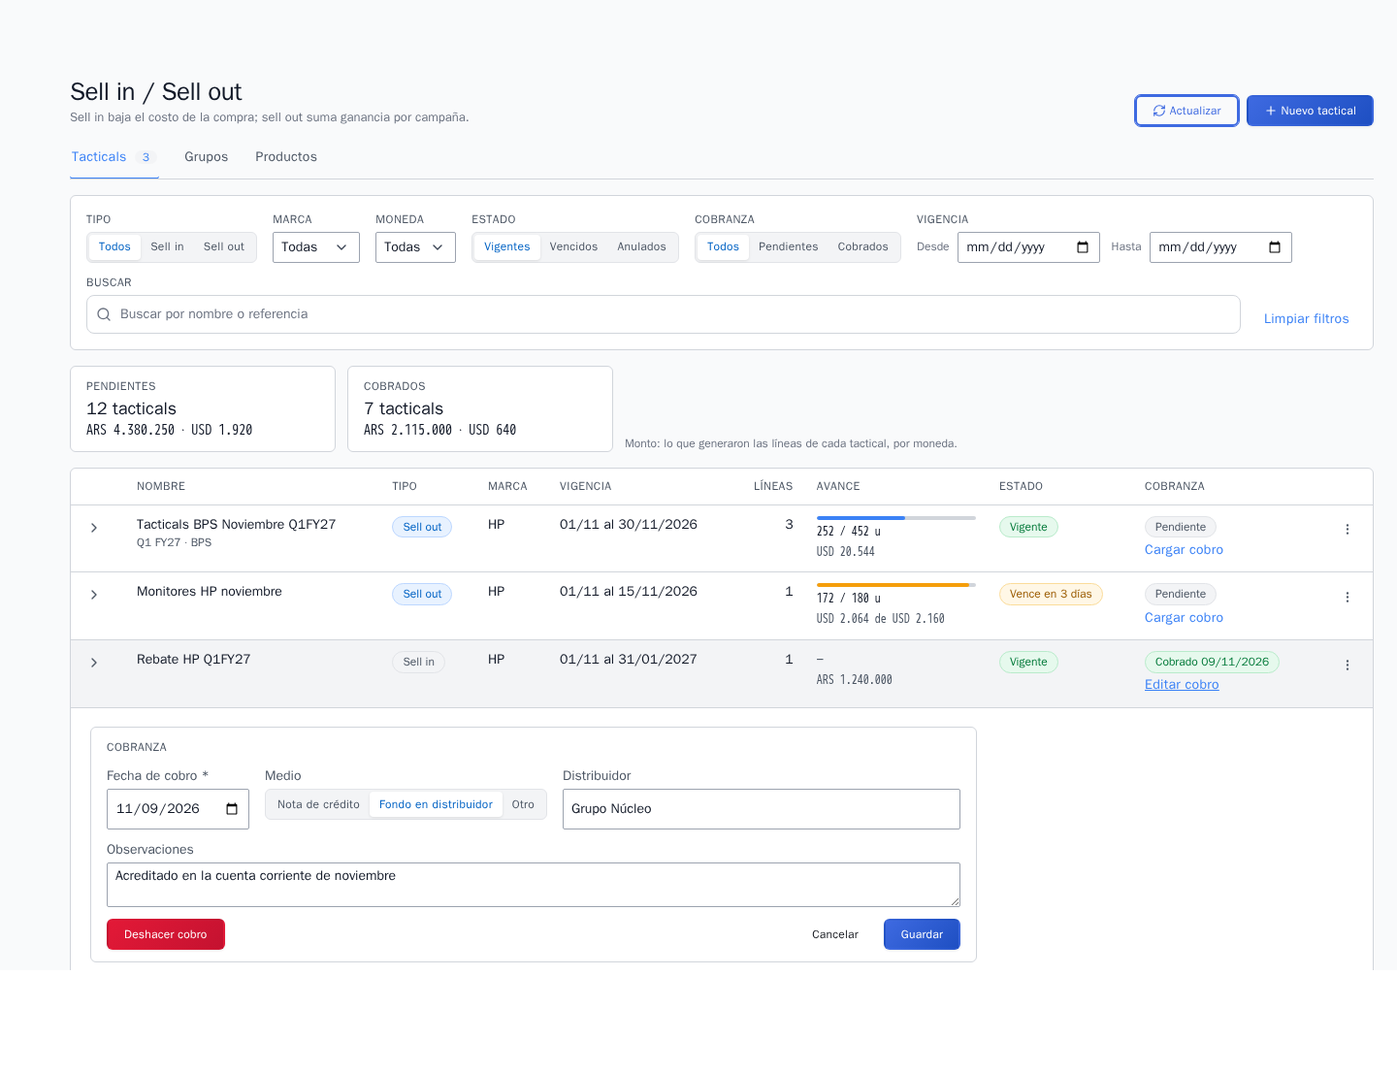
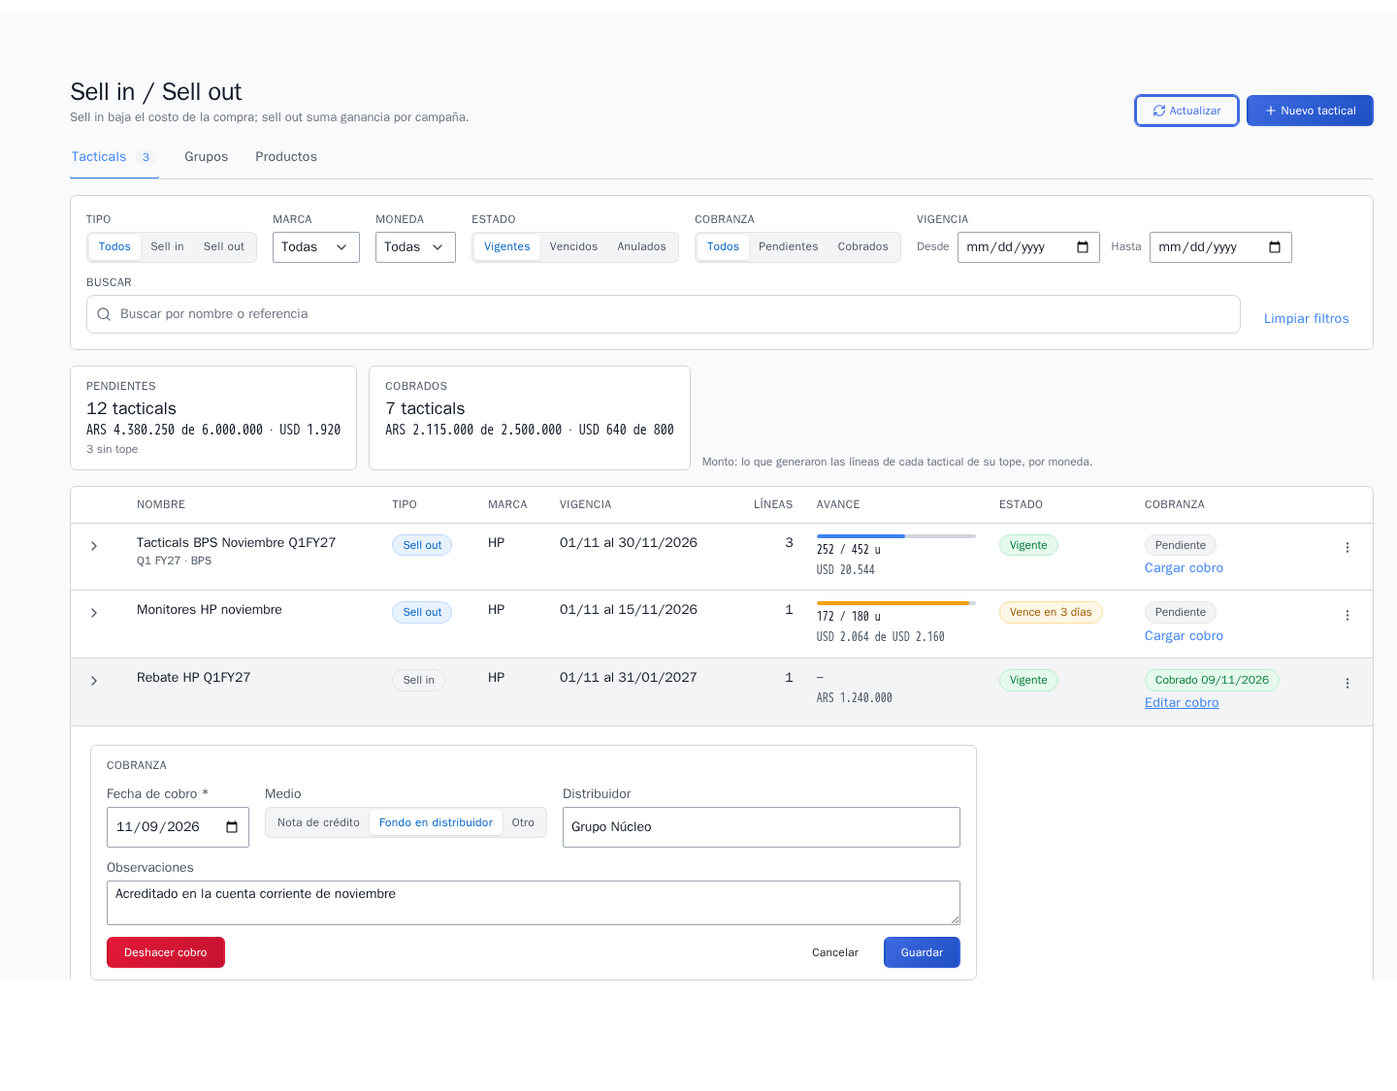
feat(tacticals): cobranza KPIs show generated of cap per currency
Each KPI currency reads the lines' generated amount of their money cap
(tope_monto, or a Monto total line's total), and counts the tacticals
with no money cap on any line. Same SQL aggregate as the generated
figure, pinned by the parity test against the serialized lines.

diff --git a/frontend/src/components/tacticals/TacticalsList.test.jsx b/frontend/src/components/tacticals/TacticalsList.test.jsx
@@ -369,12 +369,17 @@ describe('TacticalsList Cobranza (handoffs/tactical-cobranza-tarea.md S3, S4)', 
     tacticalsAPI.cobrar.mockResolvedValue({ data: COBRADO });
   });
 
-  it('shows Pendientes and Cobrados with their count and amount per currency', async () => {
+  it('shows Pendientes and Cobrados with their count, generated of cap per currency and how many have no cap', async () => {
     render(<TacticalsList marcas={MARCAS} />);
 
     const kpis = await screen.findByRole('region', { name: 'Cobranza de los tacticals' });
-    expect(within(kpis).getByText('Pendientes').closest('div')).toHaveTextContent('Pendientes12 tacticalsARS 4.380.250 · USD 1.920');
-    expect(within(kpis).getByText('Cobrados').closest('div')).toHaveTextContent('Cobrados7 tacticalsARS 2.115.000 · USD 640');
+    expect(within(kpis).getByText('Pendientes').closest('div')).toHaveTextContent(
+      'Pendientes12 tacticalsARS 4.380.250 de 6.000.000 · USD 1.9203 sin tope',
+    );
+    expect(within(kpis).getByText('Cobrados').closest('div')).toHaveTextContent(
+      /^Cobrados7 tacticalsARS 2\.115\.000 de 2\.500\.000 · USD 640 de 800$/,
+    );
+    expect(kpis).toHaveTextContent('Monto: lo que generaron las líneas de cada tactical de su tope, por moneda.');
   });
 
   it('a currency-less group reads a dash, and a single tactical reads singular', async () => {

diff --git a/frontend/src/components/tacticals/TacticalsList.jsx b/frontend/src/components/tacticals/TacticalsList.jsx
@@ -28,7 +28,8 @@ const FILAS_POR_PAGINA = 50;
 
 const cantidadDe = (n) => `${n} ${n === 1 ? 'tactical' : 'tacticals'}`;
 
-/** Pendientes and Cobrados over every tactical the other filters match (tactical cobranza S4): count and amount. */
+/** Pendientes and Cobrados over every tactical the other filters match (tactical cobranza S4): count, generated of
+ * cap per currency and how many have no money cap (S6). */
 function KpisCobranza({ kpis }) {
   return (
     <section className={styles.kpis} aria-label="Cobranza de los tacticals">
@@ -40,9 +41,10 @@ function KpisCobranza({ kpis }) {
           <span className={styles.label}>{titulo}</span>
           <div className={styles.kpiCantidad}>{cantidadDe(grupo.cantidad)}</div>
           <div className={styles.kpiMonto}>{formatMontosKpi(grupo.montos)}</div>
+          {grupo.sin_tope > 0 && <div className={styles.kpiSinTope}>{grupo.sin_tope} sin tope</div>}
         </div>
       ))}
-      <p className={styles.kpiNota}>Monto: lo que generaron las líneas de cada tactical, por moneda.</p>
+      <p className={styles.kpiNota}>Monto: lo que generaron las líneas de cada tactical de su tope, por moneda.</p>
     </section>
   );
 }

diff --git a/frontend/src/components/tacticals/tacticalsFormat.js b/frontend/src/components/tacticals/tacticalsFormat.js
@@ -123,9 +123,19 @@ export const FILTROS_VACIOS = {
   q: '',
 };
 
-/** A KPI amount (`kpis.*.montos` of the list, tactical cobranza S4): `ARS 4.380.250 · USD 1.920`, a dash when none. */
+/**
+ * A KPI amount (`kpis.*.montos` of the list, tactical cobranza S4): what the lines generated per currency, "of" the
+ * lines' money caps when that currency has any (S6): `ARS 4.380.250 de 6.000.000 · USD 1.920`; a dash when none.
+ */
 export const formatMontosKpi = (montos) =>
-  montos?.length ? montos.map(({ moneda, monto }) => formatMontoTactical(monto, moneda)).join(' · ') : '—';
+  montos?.length
+    ? montos
+        .map(({ moneda, monto, tope }) => {
+          const generado = formatMontoTactical(monto, moneda);
+          return vacio(tope) ? generado : `${generado} de ${NUMERO.format(Number(tope))}`;
+        })
+        .join(' · ')
+    : '—';
 
 /** The list's query: only the filters that are set ("Todos" sends no tipo nor cobranza). */
 export function paramsDeFiltros(filtros, { page, pageSize }) {

diff --git a/frontend/src/components/tacticals/tacticalsFixtures.js b/frontend/src/components/tacticals/tacticalsFixtures.js
@@ -118,6 +118,14 @@ export const COBRANZA_FONDO = {
 
 /** `kpis` of `GET /api/tacticals` (PR #2182): count and money used per currency, ARS first. */
 export const KPIS_COBRANZA = {
-  pendientes: { cantidad: 12, montos: [{ moneda: 'ARS', monto: '4380250.00' }, { moneda: 'USD', monto: '1920.00' }] },
-  cobrados: { cantidad: 7, montos: [{ moneda: 'ARS', monto: '2115000.00' }, { moneda: 'USD', monto: '640.00' }] },
+  pendientes: {
+    cantidad: 12,
+    sin_tope: 3,
+    montos: [{ moneda: 'ARS', monto: '4380250.00', tope: '6000000.00' }, { moneda: 'USD', monto: '1920.00', tope: null }],
+  },
+  cobrados: {
+    cantidad: 7,
+    sin_tope: 0,
+    montos: [{ moneda: 'ARS', monto: '2115000.00', tope: '2500000.00' }, { moneda: 'USD', monto: '640.00', tope: '800.00' }],
+  },
 };

diff --git a/frontend/src/components/tacticals/tacticalsFormat.test.js b/frontend/src/components/tacticals/tacticalsFormat.test.js
@@ -162,4 +162,9 @@ describe('cobranza filter and KPIs (tactical cobranza S4)', () => {
     expect(formatMontosKpi([{ moneda: 'ARS', monto: '4380250.00' }, { moneda: 'USD', monto: '1920.50' }])).toBe('ARS 4.380.250 · USD 1.920,5');
     expect(formatMontosKpi([])).toBe('—');
   });
+
+  it('formats a KPI amount as generated of cap when its currency has a cap (S6)', () => {
+    const montos = [{ moneda: 'ARS', monto: '4380250.00', tope: '6000000.00' }, { moneda: 'USD', monto: '1920.00', tope: null }];
+    expect(formatMontosKpi(montos)).toBe('ARS 4.380.250 de 6.000.000 · USD 1.920');
+  });
 });

diff --git a/frontend/src/components/tacticals/TacticalsList.module.css b/frontend/src/components/tacticals/TacticalsList.module.css
@@ -153,6 +153,12 @@
   color: var(--cf-text-primary);
 }
 
+/* How many tacticals add nothing to the cap (S6). */
+.kpiSinTope {
+  font-size: var(--font-xs);
+  color: var(--cf-text-tertiary);
+}
+
 .kpiNota {
   align-self: flex-end;
   margin: 0;

diff --git a/backend/tests/services/test_tactical_cobranza_postgres.py b/backend/tests/services/test_tactical_cobranza_postgres.py
@@ -181,9 +181,11 @@ class TestKpis:
         kpis = service.kpis(db, service.Filtros(tipos=TODOS), hoy=HOY)
 
         assert kpis == {
-            "pendientes": {"cantidad": 3, "montos": [{"moneda": "ARS", "monto": Decimal("70.50")},
-                                                     {"moneda": "USD", "monto": Decimal("7.00")}]},
-            "cobrados": {"cantidad": 1, "montos": [{"moneda": "ARS", "monto": Decimal("100.00")}]},
+            "pendientes": {"cantidad": 3, "sin_tope": 3,
+                           "montos": [{"moneda": "ARS", "monto": Decimal("70.50"), "tope": None},
+                                      {"moneda": "USD", "monto": Decimal("7.00"), "tope": None}]},
+            "cobrados": {"cantidad": 1, "sin_tope": 1,
+                         "montos": [{"moneda": "ARS", "monto": Decimal("100.00"), "tope": None}]},
         }  # fmt: skip
 
     def test_they_follow_the_other_filters_but_not_the_collection_one(self, db, engine) -> None:
@@ -197,27 +199,48 @@ class TestKpis:
         solo_cobrados = service.kpis(db, service.Filtros(tipos=TODOS, cobranza="cobrados"), hoy=HOY)
 
         assert por_texto == {
-            "pendientes": {"cantidad": 1, "montos": [{"moneda": "ARS", "monto": Decimal("10.00")}]},
-            "cobrados": {"cantidad": 0, "montos": []},
+            "pendientes": {
+                "cantidad": 1,
+                "sin_tope": 1,
+                "montos": [{"moneda": "ARS", "monto": Decimal("10.00"), "tope": None}],
+            },
+            "cobrados": {"cantidad": 0, "sin_tope": 0, "montos": []},
         }
         assert (solo_cobrados["pendientes"]["cantidad"], solo_cobrados["cobrados"]["cantidad"]) == (1, 1)
 
 
+def _tope_de(linea: dict) -> Decimal | None:
+    """A line's money cap as the list shows it: its `tope_monto`, or the total of a Monto total line (its own cap)."""
+    if linea["tope_monto"] is not None:
+        return Decimal(linea["tope_monto"])
+    return Decimal(linea["valor"]) if linea["modo_monto"] == "monto_total" else None
+
+
 def _segun_las_lineas(db: Session, filtros: service.Filtros) -> dict:
     """The KPIs the slow way: every filtered tactical serialized, its lines' `monto_usado` summed per currency (what
-    the list's Avance column shows). The SQL aggregate must give exactly these numbers."""
+    the list's Avance column shows) and their money caps (S6). The SQL aggregate must give exactly these numbers."""
     tacticals = service.listar(db, filtros, 1, 500, hoy=HOY)[1]
     salida = {}
     for clave, cobrados in (("pendientes", False), ("cobrados", True)):
         grupo = [t for t in service.serializar(db, tacticals) if (t["cobranza"] is not None) == cobrados]
         montos: dict[str, Decimal] = {}
+        topes: dict[str, Decimal] = {}
         for t in grupo:
             for linea in t["lineas"]:
                 montos[linea["moneda"]] = montos.get(linea["moneda"], Decimal(0)) + Decimal(linea["monto_usado"])
+                if (tope := _tope_de(linea)) is not None:
+                    topes[linea["moneda"]] = topes.get(linea["moneda"], Decimal(0)) + tope
         salida[clave] = {
             "cantidad": len(grupo),
+            "sin_tope": sum(1 for t in grupo if all(_tope_de(linea) is None for linea in t["lineas"])),
             "montos": [
-                {"moneda": m, "monto": montos[m].quantize(Decimal("0.01"))} for m in ("ARS", "USD") if m in montos
+                {
+                    "moneda": m,
+                    "monto": montos[m].quantize(Decimal("0.01")),
+                    "tope": topes[m].quantize(Decimal("0.01")) if m in topes else None,
+                }
+                for m in ("ARS", "USD")
+                if m in montos
             ],
         }
     return salida
@@ -306,6 +329,18 @@ class TestKpisEnSql:
         # Sell in invoice fixed total in USD at a fixed rate: its sales took ARS, shown in USD at its own rate
         # (ARS 2.501,25 / 1.000,5 = USD 2,50).
         total = total_usd("Total USD", bw.pedido(engine, {2270: 5}, date(2026, 10, 12)))
+        # Caps (S6): a sell out line with a money cap, and a sell in cost total loaded in USD, whose bonus keeps the
+        # ARS total at the fixed rate (USD 2 x 1.000,5 = ARS 2.001), so its cap counts in ARS as its usage does.
+        service.crear(db, _tactical(nombre="Tope", lineas=[{"alcance": "marca", "marca": bw.TPLINK,
+                                                           "modo_monto": "por_unidad", "valor": "10", "tope_monto": "500"}]),
+                      USUARIO)  # fmt: skip
+        service.crear(
+            db,
+            _tactical("sell_in", [{"alcance": "productos", "item_ids": [2964], "modo_monto": "monto_total", "valor": "2",
+                                   "reparto_criterio": "iguales"}], nombre="Costo total USD", moneda="USD",
+                      tc_modo="fijo", tipo_cambio="1000.5"),
+            USUARIO,
+        )  # fmt: skip
         # Voided after they were used: a campaign, a cost bonus and an invoice total. The list still shows what each
         # used, so the KPIs count it too.
         campana_anulada = service.crear(db, _tactical(nombre="Campaña anulada"), USUARIO)
@@ -332,12 +367,15 @@ class TestKpisEnSql:
 
         assert kpis == _segun_las_lineas(db, filtros)
         assert kpis == {
-            # Campaña 131,00 + Factura % 40,50 + Campaña anulada 10,10 + Costo anulado 20,20; Sin uso USD 0.
-            "pendientes": {"cantidad": 5, "montos": [{"moneda": "ARS", "monto": Decimal("201.80")},
-                                                     {"moneda": "USD", "monto": Decimal("0.00")}]},
-            # Costo 108,15; Total USD 2,50 + Total USD anulado 0,50.
-            "cobrados": {"cantidad": 3, "montos": [{"moneda": "ARS", "monto": Decimal("108.15")},
-                                                   {"moneda": "USD", "monto": Decimal("3.00")}]},
+            # Campaña 131,00 + Factura % 40,50 + Campaña anulada 10,10 + Costo anulado 20,20; Sin uso USD 0. Caps:
+            # Tope 500 + Costo total USD 2.001; the other 5 have none.
+            "pendientes": {"cantidad": 7, "sin_tope": 5,
+                           "montos": [{"moneda": "ARS", "monto": Decimal("201.80"), "tope": Decimal("2501.00")},
+                                      {"moneda": "USD", "monto": Decimal("0.00"), "tope": None}]},
+            # Costo 108,15; Total USD 2,50 + Total USD anulado 0,50, each capped by its USD 300 total; Costo has none.
+            "cobrados": {"cantidad": 3, "sin_tope": 1,
+                         "montos": [{"moneda": "ARS", "monto": Decimal("108.15"), "tope": None},
+                                    {"moneda": "USD", "monto": Decimal("3.00"), "tope": Decimal("600.00")}]},
         }  # fmt: skip
 
     def test_voided_tacticals_with_the_anulados_filter(self, db, engine) -> None:
@@ -359,7 +397,15 @@ class TestKpisEnSql:
         assert ids(estado="anulados", cobranza="pendientes") == [anulado_pendiente.id]
         filtros = service.Filtros(tipos=TODOS, estado="anulados")
         assert service.kpis(db, filtros, hoy=HOY) == {
-            "pendientes": {"cantidad": 1, "montos": [{"moneda": "ARS", "monto": Decimal("30.25")}]},
-            "cobrados": {"cantidad": 1, "montos": [{"moneda": "ARS", "monto": Decimal("70.00")}]},
+            "pendientes": {
+                "cantidad": 1,
+                "sin_tope": 1,
+                "montos": [{"moneda": "ARS", "monto": Decimal("30.25"), "tope": None}],
+            },
+            "cobrados": {
+                "cantidad": 1,
+                "sin_tope": 1,
+                "montos": [{"moneda": "ARS", "monto": Decimal("70.00"), "tope": None}],
+            },
         }
         assert service.kpis(db, filtros, hoy=HOY) == _segun_las_lineas(db, filtros)

diff --git a/backend/app/services/tacticals.py b/backend/app/services/tacticals.py
@@ -918,15 +918,22 @@ def listar(db: Session, filtros: Filtros, page: int, page_size: int, hoy: Option
 
 
 def _usado_por_linea(ids: Select) -> Subquery:
-    """One row per child of the tacticals in `ids` (a subquery of ids): `(tactical_id, moneda, monto)`, `monto` being
-    its `monto_usado` exactly as `serializar` computes it (`_lineas_campanas`, `_lineas_bonos` through
-    `bonos_crud.serializar`, `_lineas_compras`), rounded to cents per child. A child that used nothing is a 0 row."""
+    """One row per child of the tacticals in `ids` (a subquery of ids): `(tactical_id, moneda, monto, tope)`, `monto`
+    being its `monto_usado` exactly as `serializar` computes it (`_lineas_campanas`, `_lineas_bonos` through
+    `bonos_crud.serializar`, `_lineas_compras`), rounded to cents per child. A child that used nothing is a 0 row.
+    `tope` is its money cap in that same currency (S6): its `tope_monto`, or the total of a Monto total child (the
+    total is its cap; a cost bonus keeps it in ARS, converted at the tactical's fixed rate); NULL without one."""
     cero = literal(0)
+
+    def tope(modelo):
+        return func.coalesce(modelo.tope_monto, case((modelo.tipo == "monto_total", modelo.monto_total))).label("tope")
+
     campanas_ = (
         select(
             SellOutCampana.tactical_id.label("tactical_id"),
             SellOutCampana.moneda.label("moneda"),
             func.round(func.coalesce(func.sum(SellOutConsumo.monto), cero), 2).label("monto"),
+            tope(SellOutCampana),
         )
         .select_from(SellOutCampana)
         .outerjoin(SellOutConsumo, SellOutConsumo.campana_id == SellOutCampana.id)
@@ -946,6 +953,7 @@ def _usado_por_linea(ids: Select) -> Subquery:
                 ),
                 else_=cero,
             ),
+            tope(SellInBonoMarca),
         )
         .select_from(SellInBonoMarca)
         .outerjoin(SellInBonoConsumo, SellInBonoConsumo.bono_id == SellInBonoMarca.id)
@@ -958,6 +966,7 @@ def _usado_por_linea(ids: Select) -> Subquery:
             SellInBonoMarca.tactical_id,
             SellInBonoMarca.moneda,
             func.round(func.coalesce(func.sum(SellInCompraItem.monto_asignado), cero), 2),
+            tope(SellInBonoMarca),
         )
         .select_from(SellInBonoMarca)
         .outerjoin(
@@ -980,6 +989,7 @@ def _usado_por_linea(ids: Select) -> Subquery:
             SellInCompra.tactical_id,
             SellInCompra.moneda,
             func.round(case((en_usd, ars / SellInCompra.tipo_cambio), else_=ars), 2),
+            SellInCompra.monto_total,  # an invoice total: in the purchase's own currency, its own cap
         )
         .select_from(SellInCompra)
         .outerjoin(SellInCompraItem, SellInCompraItem.compra_id == SellInCompra.id)
@@ -993,8 +1003,9 @@ def _usado_por_linea(ids: Select) -> Subquery:
 def kpis(db: Session, filtros: Filtros, hoy: Optional[date] = None) -> dict:
     """Pendientes and Cobrados over every tactical the other filters match (S4): how many, and the money they used
     per currency, the sum of their lines' `monto_usado` exactly as the list's Avance column shows it (a USD
-    tactical's cost-reduction lines count in ARS). Two SQL aggregates, whatever the number of tacticals. ARS first,
-    then USD; a currency with no line is left out."""
+    tactical's cost-reduction lines count in ARS), next to the sum of their money caps in that currency (S6, None
+    when no line there has one), and how many have no money cap on any line. Three SQL aggregates, whatever the
+    number of tacticals. ARS first, then USD; a currency with no line is left out."""
     cobrado = exists().where(TacticalCobranza.tactical_id == Tactical.id)
     base = (
         _consulta(db, filtros, hoy or date.today())
@@ -1004,17 +1015,32 @@ def kpis(db: Session, filtros: Filtros, hoy: Optional[date] = None) -> dict:
     )
     cantidades = {bool(c): int(n) for c, n in db.query(base.c.cobrado, func.count()).group_by(base.c.cobrado)}
     lineas = _usado_por_linea(select(base.c.id))
-    montos: dict[bool, dict[str, Decimal]] = defaultdict(dict)
-    for c, moneda, monto in (
-        db.query(base.c.cobrado, lineas.c.moneda, func.sum(lineas.c.monto))
+    montos: dict[bool, dict[str, dict]] = defaultdict(dict)
+    for c, moneda, monto, tope in (
+        db.query(base.c.cobrado, lineas.c.moneda, func.sum(lineas.c.monto), func.sum(lineas.c.tope))
         .join(lineas, lineas.c.tactical_id == base.c.id)
         .group_by(base.c.cobrado, lineas.c.moneda)
     ):
-        montos[bool(c)][moneda] = _cents(monto)
+        montos[bool(c)][moneda] = {
+            "moneda": moneda,
+            "monto": _cents(monto),
+            "tope": None if tope is None else _cents(tope),
+        }
+    con_tope = (
+        select(lineas.c.tactical_id, func.count(lineas.c.tope).label("topes")).group_by(lineas.c.tactical_id).subquery()
+    )
+    sin_tope = {
+        bool(c): int(n)
+        for c, n in db.query(base.c.cobrado, func.count())
+        .outerjoin(con_tope, con_tope.c.tactical_id == base.c.id)
+        .filter(func.coalesce(con_tope.c.topes, 0) == 0)
+        .group_by(base.c.cobrado)
+    }
     return {
         clave: {
             "cantidad": cantidades.get(cobrados, 0),
-            "montos": [{"moneda": m, "monto": montos[cobrados][m]} for m in ("ARS", "USD") if m in montos[cobrados]],
+            "sin_tope": sin_tope.get(cobrados, 0),
+            "montos": [montos[cobrados][m] for m in ("ARS", "USD") if m in montos[cobrados]],
         }
         for clave, cobrados in (("pendientes", False), ("cobrados", True))
     }

diff --git a/backend/app/schemas/tacticals.py b/backend/app/schemas/tacticals.py
@@ -237,10 +237,12 @@ class TacticalOut(BaseModel):
 class MontoMonedaOut(BaseModel):
     moneda: Moneda
     monto: Decimal
+    tope: Optional[Decimal] = None  # the lines' money caps in this currency (S6); None when no line here has one
 
 
 class CobranzaKpiOut(BaseModel):
     cantidad: int
+    sin_tope: int = 0  # how many have no money cap on any line (S6)
     montos: list[MontoMonedaOut]  # money used per currency, as the list's Avance column (ARS first)
 
 

diff --git a/frontend/src/ayuda/sell-in-sell-out.md b/frontend/src/ayuda/sell-in-sell-out.md
@@ -169,7 +169,7 @@ Un **tactical** es un programa de una marca: sell in baja el costo, sell out sum
   - **Vigencia**: Desde y Hasta.
   - **Buscar**: por nombre o referencia.
   - **Limpiar filtros** vuelve a los vigentes de todas las marcas, con Cobranza en Todos.
-- Arriba de la lista, **Pendientes** y **Cobrados** dicen cuántos tacticals hay de cada uno y su monto por moneda: lo que generaron sus líneas, el mismo monto que muestra **Avance**. Cuentan todos los tacticals que cumplen los otros filtros (no solo la página que estás viendo); el filtro **Cobranza** no los cambia.
+- Arriba de la lista, **Pendientes** y **Cobrados** dicen cuántos tacticals hay de cada uno y su monto por moneda: lo que generaron sus líneas (el mismo monto que muestra **Avance**) **de** su tope, por ejemplo `ARS 4.380.250 de 6.000.000`. El tope es la suma de los topes de monto de las líneas; en una línea de **Monto total**, el total es su tope. Las líneas sin tope de monto no suman al tope, y **N sin tope** dice cuántos tacticals no tienen tope de monto en ninguna línea. Cuentan todos los tacticals que cumplen los otros filtros (no solo la página que estás viendo); el filtro **Cobranza** no los cambia.
 - Columnas:
   - **Nombre**, con la referencia debajo.
   - **Tipo**, **Marca** (todas las del tactical, separadas por coma), **Vigencia** y **Líneas**.
@@ -235,7 +235,7 @@ Sell in baja el costo de la compra; sell out suma ganancia por campaña (o la de
 Repartir pide permiso de reparto (lo tienen los PM y los administradores) o de gestión de campañas, y la campaña tiene que estar activa. Un PM solo puede repartir productos de sus marcas.
 
 **¿Qué monto suman Pendientes y Cobrados?**
-Lo que generaron las líneas de esos tacticals, por moneda: el mismo monto de la columna **Avance**. Un tactical en USD puede sumar a ARS si tiene líneas de costo, que van en pesos.
+Lo que generaron las líneas de esos tacticals, por moneda: el mismo monto de la columna **Avance**, seguido de **de** y la suma de sus topes de monto en esa moneda. Un tactical en USD puede sumar a ARS si tiene líneas de costo, que van en pesos; su tope también (un monto total de costo cargado en USD se guarda en pesos al tipo de cambio fijo). Si ninguna línea de una moneda tiene tope, esa moneda muestra solo lo generado.
 
 **¿Un tactical anulado puede marcarse cobrado?**
 Sí: la marca pudo haber pagado lo que se generó antes de anularlo. Con **Estado** en Anulados ves sus Pendientes y Cobrados.

diff --git a/frontend/src/novedades/2026-11-10-tacticals-cobranza.md b/frontend/src/novedades/2026-11-10-tacticals-cobranza.md
@@ -6,7 +6,7 @@
 
 - Cada tactical dice si está **Pendiente** o **Cobrado** (con la fecha de cobro), en la nueva columna **Cobranza**.
 - **Cargar cobro** abre un cuadro debajo de la fila: fecha de cobro (obligatoria), medio (Nota de crédito con su número, Fondo en distribuidor con el distribuidor, u Otro con un detalle) y observaciones.
-- Nuevo filtro **Cobranza** (Todos, Pendientes, Cobrados) y, arriba de la lista, cuántos tacticals hay pendientes y cobrados con su monto por moneda.
+- Nuevo filtro **Cobranza** (Todos, Pendientes, Cobrados) y, arriba de la lista, cuántos tacticals hay pendientes y cobrados con su monto por moneda: lo generado **de** su tope (por ejemplo `ARS 4.380.250 de 6.000.000`) y cuántos no tienen tope.
 
 ## Cómo se usa
 
@@ -14,4 +14,4 @@
 2. En la columna **Cobranza** de un tactical, tocá **Cargar cobro**.
 3. Cargá la **Fecha de cobro**. Si querés, elegí el **Medio**: con **Nota de crédito** escribí el **Número de NC**, con **Fondo en distribuidor** el **Distribuidor**, con **Otro** un **Detalle**. Sumá **Observaciones** si hace falta.
 4. Tocá **Guardar**: la fila pasa a «Cobrado» con la fecha. Para corregirlo, **Editar cobro**; para volverlo a pendiente, **Deshacer cobro**.
-5. Usá el filtro **Cobranza** para ver solo los **Pendientes** o los **Cobrados**. Los recuadros **Pendientes** y **Cobrados** cuentan todos los tacticals de los otros filtros, con el monto que generaron sus líneas.
+5. Usá el filtro **Cobranza** para ver solo los **Pendientes** o los **Cobrados**. Los recuadros **Pendientes** y **Cobrados** cuentan todos los tacticals de los otros filtros, con el monto que generaron sus líneas de su tope de monto (en una línea de Monto total, el total es su tope). **N sin tope** cuenta los tacticals sin tope de monto en ninguna línea.
